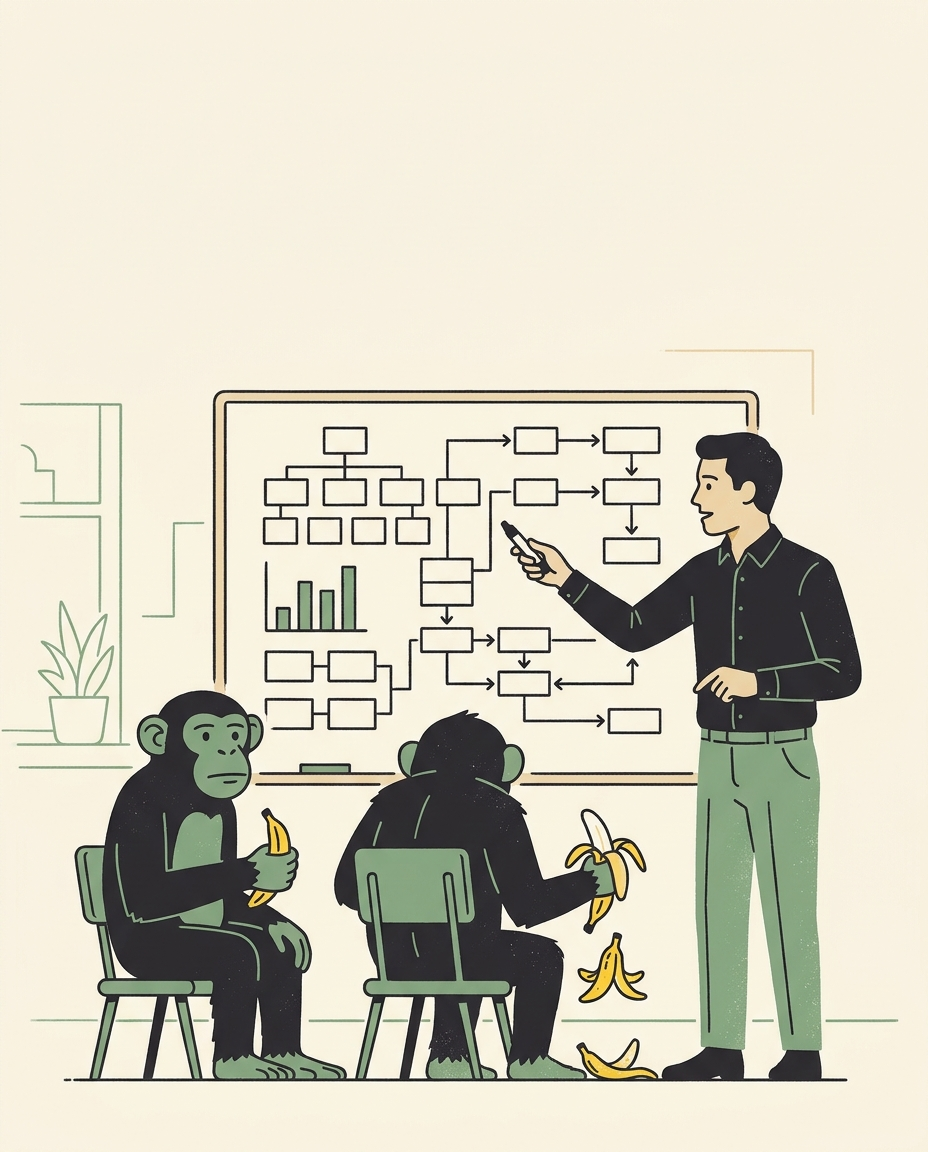
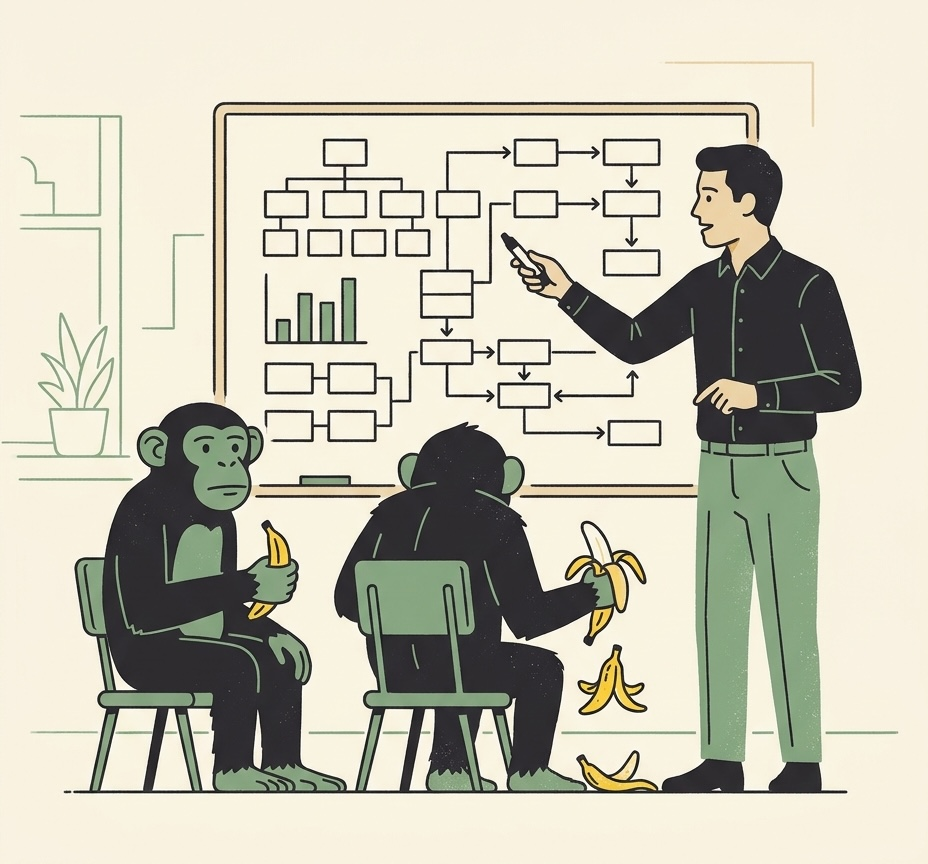
Use cropped illustration and move it to the top of "AI Slop" post

diff --git a/content/posts/ai-slop-is-a-human-problem.md b/content/posts/ai-slop-is-a-human-problem.md
@@ -8,6 +8,8 @@ Why is AI writing so bad?
 
 It can one-shot an entire app, but if I ask it to help me write a 1000-word essay, it is riddled with non sequiturs and a lack of coherence. I fed it the outline, key ideas of this post, had a discussion about what I wanted to communicate and then asked Claude to write a post and what came out made me squirm. Every thread we touched got a paragraph, weighted equally. There was a certain blandness to it. So here I am writing this all by myself.
 
+{{< figure src="/img/ai-slop-is-a-human-problem-chimps-whiteboard.jpeg" width="928" height="864" alt="A person at a whiteboard full of flowcharts and bar charts points a marker toward two chimpanzees sitting on chairs eating bananas" class="tc" >}}
+
 ## Is it an intelligence problem?
 
 It is often said that being able to communicate your ideas clearly is a sign of intelligence and depth of understanding. My initial response to the sloppy writing was that AI doesn't understand what it's talking about, so it cannot talk about it well. Basically, it is not smart enough, and when it gets smart enough it will write well.
@@ -42,8 +44,6 @@ There are 2 issues here:
 2. Why does it still feel icky after all that work?
 
 I think deep understanding leads to better writing only if the understander is human. Because they have to have human-chunked the problem to understand it, and now they are communicating it back to humans in human-chunks and it clicks. If you will allow me to anthropomorphise LLMs, the AI doesn't need to human-ify the problem to process it. It has understood it in AI-terms and now it has to communicate it in terms the humans will understand. That's why I had to specifically human-chunk it before it was legible. Think of a chimpanzee asking us to explain to another chimpanzee something about its banana preference and complaining that we didn't quite get it right so we don't understand bananas.
-
-{{< figure src="/img/ai-slop-is-a-human-problem-chimps-whiteboard.jpeg" width="928" height="1152" alt="A person at a whiteboard full of flowcharts and bar charts points a marker toward two chimpanzees sitting on chairs eating bananas" class="tc" >}}
 
 Even after we teach it how to dumb things down for us, it still speaks humanese with an AI-accent, which is where we find it not quite right.
 
